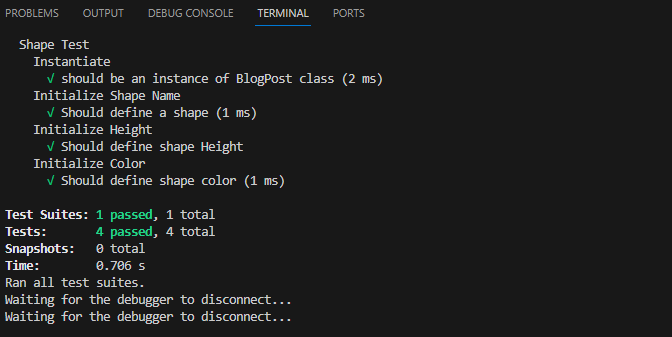
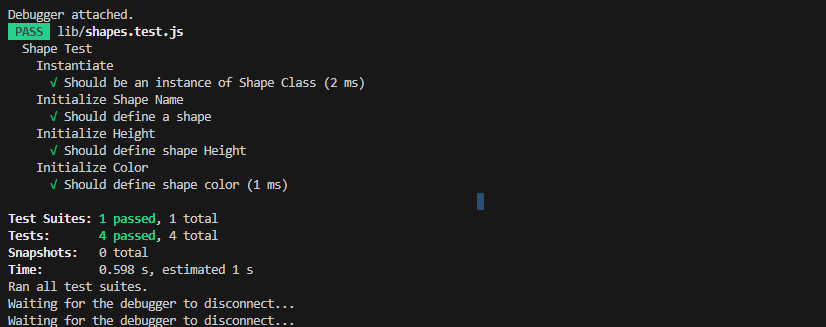
Updated Debugger

diff --git a/lib/shapes.test.js b/lib/shapes.test.js
@@ -2,7 +2,7 @@ const Shape = require('./shapes.js');
 
 describe('Shape Test', () => {
   describe('Instantiate', () => {
-    it('should be an instance of BlogPost class', () => {
+    it('Should be an instance of Shape Class', () => {
       const shapes = new Shape();
 
       expect(shapes).toBeInstanceOf(Shape);
